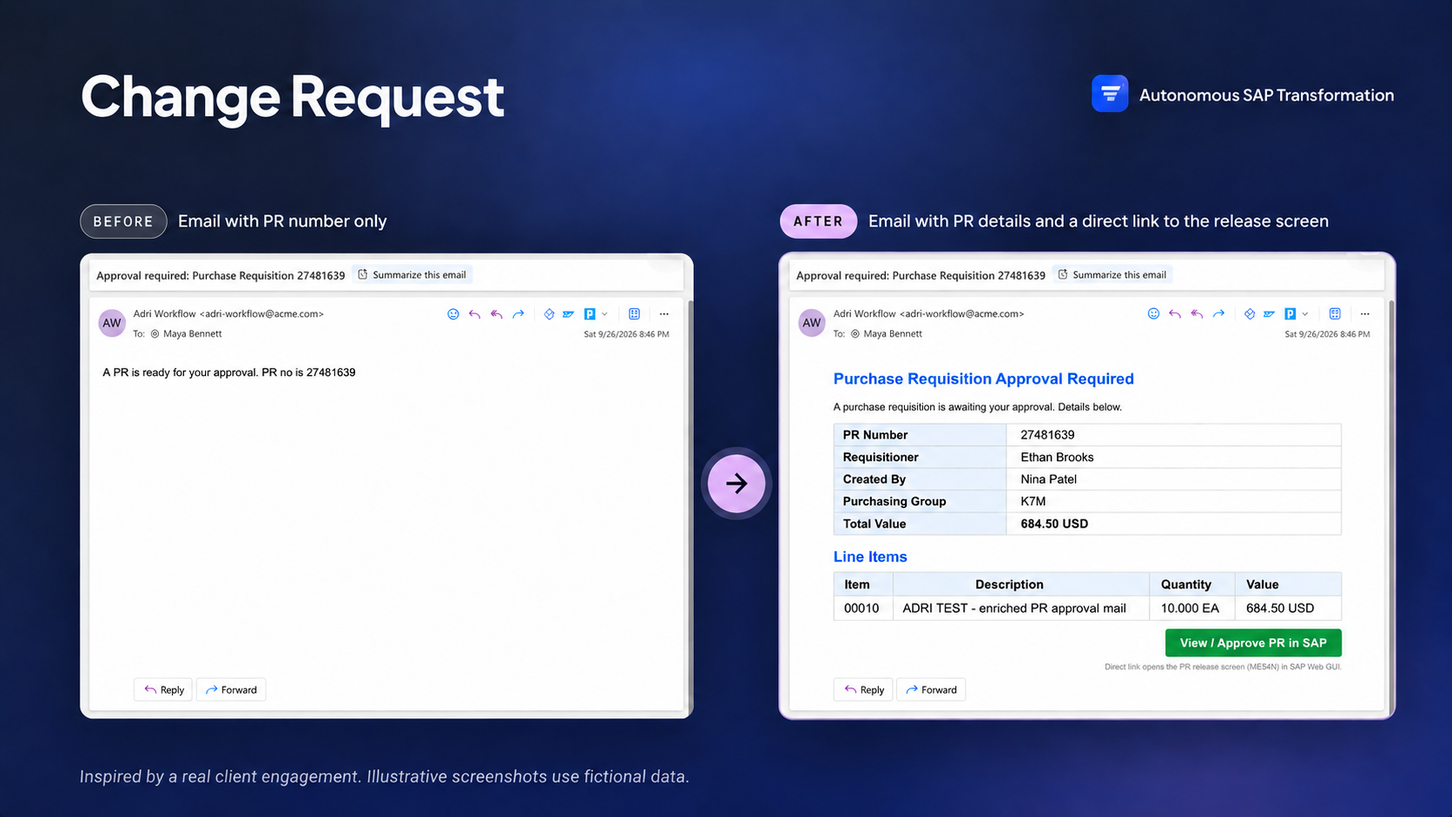
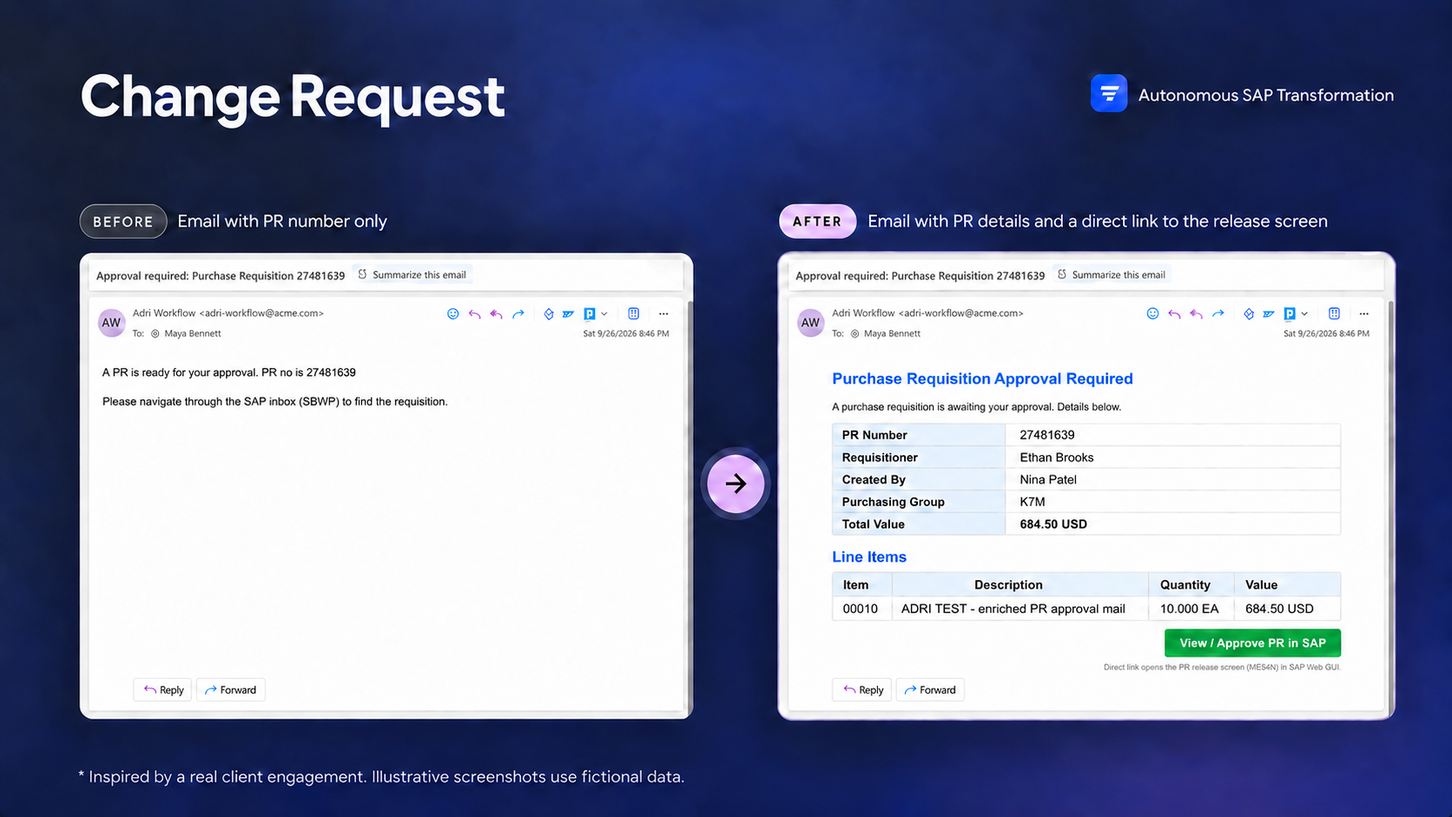
added new case study and others

diff --git a/docs/case-studies/v3.md b/docs/case-studies/v3.md
@@ -58,7 +58,7 @@ The dots indicate direct participation, not the amount of effort or overall acco
 | --------- | ------------------------------------------------------------------------------------------------------------------------------------------------------------------------------------------------------------------------------------------------------------------ |
 | Agent     | No direct task at this step.                                                                                                                                                                                                                                       |
 | Developer | Since the ABAP team did not know the existing workflow behind this approval flow deeply, the most important and non-negotiable criterion for the developer was that the change should be easy to reverse in case the modified implementation behaved unexpectedly. |
-| Basis     | No direct task at this step.                                                                                                                                                                                                                                       |
+| BASIS     | No direct task at this step.                                                                                                                                                                                                                                       |
 
 </div>
 
@@ -70,7 +70,7 @@ The dots indicate direct participation, not the amount of effort or overall acco
 | --------- | ---------------------------------------------------------------------------------------------------------------------------------------------------------------------- |
 | Agent     | Agent traced the custom code and configuration to understand how approvers were identified, which release strategy controlled approval, and how emails were delivered. |
 | Developer | No direct task at this step.                                                                                                                                           |
-| Basis     | No direct task at this step.                                                                                                                                           |
+| BASIS     | No direct task at this step.                                                                                                                                           |
 
 </div>
 
@@ -82,11 +82,11 @@ The dots indicate direct participation, not the amount of effort or overall acco
 | --------- | ------------------------------------------------------------------------------------------------------------------------------------ |
 | Agent     | Agent researched the system's configuration, and authorization setup and picked one approach that required minimal development work. |
 | Developer | No direct task at this step.                                                                                                         |
-| Basis     | No direct task at this step.                                                                                                         |
+| BASIS     | No direct task at this step.                                                                                                         |
 
 </div>
 
-### Step 4. Agent, developer and basis resolved the authorization blocker.
+### Step 4. Agent, developer and BASIS resolved the authorization blocker.
 
 <div className="responsibility-table">
 
@@ -94,7 +94,7 @@ The dots indicate direct participation, not the amount of effort or overall acco
 | --------- | ------------------------------------------------------------------------------------------------------------------------------------------------------------------------------------- |
 | Agent     | Agent found that it could not modify the workflow with the available authorizations. It diagnosed the blocker, prepared a detailed request for BASIS and how they could implement it. |
 | Developer | The developer discussed the request with BASIS, checked what the environment could support, and brought any constraints back to the agent.                                            |
-| Basis     | Basis updated the authorization controls as per the specification created by Agent and in accordance with the firm's security policy.                                                 |
+| BASIS     | BASIS updated the authorization controls as per the specification created by Agent and in accordance with the firm's security policy.                                                 |
 
 </div>
 
@@ -106,7 +106,7 @@ The dots indicate direct participation, not the amount of effort or overall acco
 | --------- | ----------------------------------------------------------------------------------------------------------------------------------------------------- |
 | Agent     | Agent changed workflow nodes, created workflow containers, and integrated with the existing email infrastructure. It also unit-tested the components. |
 | Developer | No direct task at this step.                                                                                                                          |
-| Basis     | No direct task at this step.                                                                                                                          |
+| BASIS     | No direct task at this step.                                                                                                                          |
 
 </div>
 
@@ -118,7 +118,7 @@ The dots indicate direct participation, not the amount of effort or overall acco
 | --------- | ---------------------------------------------------------------------------------------------------------------------------------------------------------------------------------------------------------------------------------- |
 | Agent     | Agent identified that the sandbox could send approval emails to real users. So, it requested a safety measure for outbound email so that only a chosen set of developers and architects receive the approval email during testing. |
 | Developer | The developer discussed the request with BASIS, checked what the environment could support, and brought any constraints back to the agent.                                                                                         |
-| Basis     | Basis updated the authorization controls as per the specification created by Agent and in accordance with the firm's security policy.                                                                                              |
+| BASIS     | BASIS updated the authorization controls as per the specification created by Agent and in accordance with the firm's security policy.                                                                                              |
 
 </div>
 
@@ -130,7 +130,7 @@ The dots indicate direct participation, not the amount of effort or overall acco
 | --------- | ------------------------------------------------------------------------------------------------------------------------------------------------------------------------------------------------------------------------------- |
 | Agent     | Agent analyzed the release strategy for PRs and past PRs to create test PRs. This triggered test emails. The team members who were temporarily added for end to end testing confirmed that they received emails in their inbox. |
 | Developer | Developer set the requirement that the agent must trigger the workflow by creating real PRs and monitoring the SAPConnect activities.                                                                                           |
-| Basis     | No direct task at this step.                                                                                                                                                                                                    |
+| BASIS     | No direct task at this step.                                                                                                                                                                                                    |
 
 </div>
 
@@ -142,7 +142,7 @@ The dots indicate direct participation, not the amount of effort or overall acco
 | --------- | ----------------------------------------------------- |
 | Agent     | Agent created the transport from development sandbox. |
 | Developer | No direct task at this step.                          |
-| Basis     | No direct task at this step.                          |
+| BASIS     | No direct task at this step.                          |
 
 </div>
 
@@ -154,39 +154,35 @@ The dots indicate direct participation, not the amount of effort or overall acco
 | --------- | ------------------------------------------------------------------------------ |
 | Agent     | Agent updated the knowledge graph with the firm's email-delivery code pattern. |
 | Developer | No direct task at this step.                                                   |
-| Basis     | No direct task at this step.                                                   |
+| BASIS     | No direct task at this step.                                                   |
 
 </div>
 
-## So what changes for the SAP developer?
+## So what changes for the SAP developer when agents do more of the work?
 
-A developer can delegate more investigation, implementation, and test execution to an agent. They still need to define what an acceptable solution looks like and decide when the work can proceed.
+![Three responsibilities SAP developers retain when working with agents: set priorities and constraints, check if proposed changes are feasible, and define acceptance criteria. SAP and landscape knowledge remain essential to question the agent's approach and assess its impact.](/img/case-studies/role-shift.png)
 
-In practice, I would make four responsibilities explicit:
+A developer can delegate more investigation, implementation, and test execution to an agent.
 
-1. **Set priorities and constraints.**
+They still need to define what an acceptable solution looks like and decide when the work can proceed.
+
+### 1. **Set priorities and constraints.**
 
 Decide which risks matter most in the team’s circumstances. Here, limited knowledge of the existing workflow made reversibility non-negotiable.
 
 The developer also specified how testing should happen: create real PRs and monitor SAPConnect.
 
-2. **Check implementation feasibility.**
+### 2. **Check whether proposed implementation is feasible.**
 
 Assess proposed changes with BASIS and
 security stakeholders, bring constraints back to the agent, and guide alternatives when needed.
 
-3. **Define the evidence.**
+### 3. **Decide what must be verified before testing or accepting a change.**
 
 Establish what must be verified before testing or accepting a change, including email containment, authorization controls, and recovery. A passing test is one input to that decision.
 
-4. **Assign ownership.**
-
-Make clear who can authorize continuation, approve a transport, and import it. Preparing the work does not settle who can release it.
+---
 
 As you can see, a developer still needs significant SAP and landscape knowledge to question the agent's approach and understand the consequences of its proposed changes.
 
 I hope this gives you a clearer picture into how the roles and responsibilities of an SAP developer are changing as agents handle more and more of the development lifecycle. Happy to hear how your agentic development flow looks like.
-
----
-
-_Inspired by a real client engagement. Illustrative screenshots use fictional data._

diff --git a/docs/case-studies/v2.md b/docs/case-studies/v2.md
@@ -1,0 +1,109 @@
+---
+title: What Does the SAP Developer Own When an Agent Writes the Code?
+sidebar_position: 3
+sidebar_label: SAP Developer Responsibilities (v2)
+description: A workflow change shows how an SAP developer, an agent, and BASIS divide implementation work, decisions, and responsibility.
+slug: /case-studies/sap-developer-responsibilities-with-agents
+---
+
+If an agent can investigate your custom code, write a solution, and run the tests, what exactly is the SAP developer supposed to do?
+
+One of our clients had a useful example. They wanted to improve a purchase requisition approval email: include the PR details and add a link that opened the specific requisition in ME54N through SAP Web GUI.
+
+Reasonable enough. Except the workflow was 14 years old, its original developer had left, and nobody on the current team knew it particularly well.
+
+The client used Adri. I am affiliated with Adri, so this is the example I know firsthand. The part I want to discuss is how the agent, developer, and BASIS team divided the work.
+
+## How was the work divided?
+
+Follow the handoffs at the authorization blocker and the email risk. These are the points where the developer had to determine what could happen next.
+
+```mermaid
+sequenceDiagram
+    participant D as SAP Developer
+    participant A as Agent
+    participant B as BASIS
+
+    Note over D,B: 1. Set the constraint
+    D->>A: Make the change reversible
+
+    Note over D,B: 2–3. Investigate and implement
+    A->>A: Trace code, configuration, and dependencies
+    A->>A: Develop, iterate, and unit-test
+
+    Note over D,B: 4. Resolve authorization blocker
+    A->>D: Report blocker and propose required change
+    D->>B: Check feasibility and coordinate request
+    B-->>D: Required update completed
+    D->>A: Confirm update and guide continuation
+    A->>A: Complete remaining implementation
+
+    Note over D,B: 5. Make testing safe
+    A->>D: Flag outbound-email risk and pause testing
+    D->>B: Coordinate email containment
+    B-->>D: Safety measure in place
+    D->>A: Confirm testing can proceed
+
+    Note over D,B: 6–8. Test, hand over, and retain learning
+    A->>A: Run end-to-end tests, then deliver transports<br/>and specification, then record findings
+```
+
+The agent investigated approver identification, release strategy, and email delivery. It developed the email class and the workflow nodes and containers needed to call it. There were failed attempts and rework before it found an approach that fit the system.
+
+After testing, it delivered the transports and technical specification and recorded the email-delivery pattern in the knowledge graph for future work. This account covers implementation and sandbox testing; it does not establish who approved or carried out the production deployment.
+
+Three decisions in that sequence are worth looking at more closely.
+
+## We need a way back if this goes wrong.
+
+The developer made reversibility a success criterion before delegating the implementation.
+
+The workflow already worked. The team did not know it deeply. If the change behaved unexpectedly, they needed a clear path back to the working version.
+
+An agent can identify several technical concerns. Someone still has to rank them in the context of the business and the team's ability to recover. Here, the developer decided that being able to undo the change mattered enough to shape the solution.
+
+That is a requirement you can easily miss if the task you hand over is simply “add PR details and a button to this email.”
+
+For me, this is one responsibility that becomes more explicit when working with agents: describe the conditions that make a solution acceptable, as well as the functionality you want it to produce.
+
+## Can we actually make that authorization change here?
+
+During implementation, the agent found that it lacked the authorization to modify the workflow. It diagnosed the issue, prepared a detailed request for BASIS, and paused.
+
+The developer took that request to the relevant stakeholders and checked whether it was viable in the client's environment. A proposed change can be technically sensible and still run into security policy or operational constraints.
+
+This is where knowing the landscape and the people responsible for it matters. The developer had to understand the request well enough to discuss it, bring constraints back to the agent, and guide the next move.
+
+BASIS completed the required update. The agent then resumed and finished the implementation.
+
+The developer was doing more than forwarding a message. They were connecting a proposed technical solution with the organization that had to permit and support it.
+
+## Where will the test emails actually go?
+
+Before end-to-end testing, the agent identified that the sandbox could still deliver workflow emails to real users.
+
+Calling it a sandbox does not help much when your test lands in an actual approver's inbox.
+
+The agent stopped and requested a safety measure for outbound email. The developer coordinated with BASIS to establish what the environment could support. BASIS put the measure in place, and testing resumed after confirmation.
+
+The agent spotted the risk in this case. The developer still had to coordinate the response and determine when it was safe to continue.
+
+There are several separate responsibilities here: identify the risk, propose a response, change the environment, and confirm that the next action can proceed. The diagram makes those handoffs visible. “The agent tested the workflow” leaves quite a bit out.
+
+## What does this mean for the developer or architect?
+
+These responsibilities will sound familiar to experienced SAP developers and architects. The shift is in how much execution they can delegate, and how deliberately they need to define the conditions around that work.
+
+In this case, the agent took on investigation, implementation, and test execution. The developer set a priority the solution had to respect, checked proposed changes against organizational constraints, and coordinated the decisions that let work resume. BASIS remained responsible for the environment changes described here.
+
+My takeaway for an agent-assisted SDLC is to agree on three things before work starts:
+
+- **What can the agent do within the agreed scope?** Define the task, constraints, and conditions that require it to pause.
+- **What evidence must come back?** Decide how the implementation, test results, and recovery approach will be reviewed.
+- **Who can authorize the next step?** Name the people responsible for environment changes, acceptance, and release.
+
+Those are recommendations drawn from the story. The account does not document every review and approval, and preparing a transport alone does not establish who owns its release.
+
+The developer had fewer implementation steps to execute personally, but still needed enough technical understanding to question the approach and make consequential decisions. For an architect, the same questions extend across the systems and teams affected by a change.
+
+That is the question I would bring to the next project: when we delegate the work, have we also made clear who owns the decisions around it?

diff --git a/docs/case-studies/rewritten.md b/docs/case-studies/rewritten.md
@@ -44,15 +44,13 @@ The agent traced the custom code and configuration to understand how approvers w
 
 This is work a developer would otherwise have to do directly: follow the code, inspect configuration, and connect the pieces.
 
-Finding the email class only gets you so far. The setup that allows those lines of code to work is part of the implementation too.
-
 ### Step 3. Develop and test an approach.
 
 The agent worked on a class to generate the email and direct-action button, along with the workflow nodes and containers needed to call it. It also unit-tested the components.
 
 There were failed attempts. The agent built, scrapped, and retried approaches before finding one that fit the system's workflow, configuration, and authorization setup.
 
-Delegating this work did not make the dependencies disappear. It changed who was doing the investigation and implementation as those dependencies surfaced.
+Broadly, this meant changing workflow nodes, creating workflow containers, and integrating with the existing email infrastructure. In this landscape, the required direct navigation was not available out of the box.
 
 ### Step 4. Resolve an authorization blocker.
 
@@ -62,7 +60,7 @@ The developer took the request to the relevant stakeholders and checked whether 
 
 BASIS completed the required update. The agent resumed and finished the remaining implementation.
 
-This handoff is easy to overlook when we describe the task as “the agent changed the workflow.” Someone still had to get the proposed system change assessed and carried out by the team responsible for it.
+agent wrote the exact requirement for basis and how to implement it - values, tcode, update
 
 ### Step 5. Make the environment safe for testing.
 
@@ -70,7 +68,7 @@ Before end-to-end testing, the agent identified that the sandbox could still sen
 
 Calling it a sandbox does not help much when your test lands in an actual approver's inbox.
 
-The agent stopped and requested a safety measure for outbound email. The developer coordinated with BASIS to establish what the environment could support. BASIS put the measure in place, and testing resumed after confirmation.
+The agent stopped and requested a safety measure for outbound email. The agent documented the BASIS configuration required which the developer shared with BASIS to put the measure in place, and testing resumed after confirmation.
 
 In this case, the agent spotted the risk. The developer's responsibility still included deciding when it was safe to continue and coordinating the people who could change the environment.
 
@@ -80,13 +78,11 @@ With the authorization blocker resolved and outbound email contained, the agent 
 
 The modified workflow, email-generation class, and navigation to the PR could now be tested together.
 
-This distinction matters when assigning work: running a test and deciding whether the available test evidence is sufficient are separate responsibilities. The agent performed the test execution here. A team adopting this workflow still needs to decide who reviews the evidence and accepts the result.
+The other most important requirement set by the developer was that the agent must trigger the workflow by creating real PRs and monitoring the SAPConnect activities. The agent analyzed the release strategy for PRs and past PRs to create test PRs. The developers and other team members who were temporarily added for end to end testing confirmed that they received emails in their inbox.
 
 ### Step 7. Prepare the handover.
 
-The agent delivered the transports and technical specification. The resulting email included the requisition details and a button to open the relevant PR.
-
-That is where this implementation account ends. It does not establish who approved a production release or imported the transports, so I would not describe this as an agent owning deployment from start to finish.
+The agent delivered the transports and technical specification.
 
 ### Step 8. Retain what was learned.
 
@@ -151,13 +147,13 @@ Several of these responsibilities will be familiar to experienced developers and
 
 ### Turn requirements into constraints the agent can act on.
 
-“Improve the approval email” leaves a lot open. “Preserve a clear way back to the working workflow” changes which solutions are acceptable.
+“Improve the approval email” leaves a lot open. “Preserve a clear way back to the working workflow” and "Trigger real PR and monitor SAPConnect" changes which solutions are acceptable.
 
 The developer in this case supplied that priority. For an architect, the same responsibility extends to defining the system boundaries and constraints within which the agent can work.
 
 ### Evaluate proposed changes against the real environment.
 
-The authorization request needed someone who could discuss it with the relevant teams and understand their answer. If the preferred change was not possible, that person also had to guide the next approach.
+The authorization request needed someone who could discuss it with the relevant teams and understand their answer. If the preferred authorization change was not possible, that person also had to guide the next approach.
 
 This requires technical knowledge. To challenge a proposed permission change or an implementation dependency, you need to understand why it is being requested and what it would affect.
 

diff --git a/docs/case-studies/clean-core-plan.md b/docs/case-studies/clean-core-plan.md
@@ -1,0 +1,28 @@
+## Adri reduced clean core migration planning from 16 weeks to 3
+
+![Clean core migration planning with Adri](/img/case-studies/case-study-clean-core.png)
+
+### Customer and SI partner
+
+Multinational FMCG company · SAP Gold Partner
+
+### Migration scope
+
+SAP ECC and BW → SAP S/4HANA Private Cloud under RISE with SAP, BDC – Datasphere, and BTP
+
+### Object count
+
+About 4,000 technical objects
+
+### Timeline
+
+**Planned timeline before Adri:** 16 weeks  
+**Actual timeline with Adri (including onboarding):** 3 weeks
+
+### Task
+
+Adri analyzed about 4,000 technical objects and delivered an actionable clean core migration plan in 3 weeks, including onboarding—81% less time than the planned 16 weeks. The plan connected legacy business logic and dependencies to standard replacements, modernization paths, and the clean core impact of migration decisions.
+
+- **Mapped legacy business logic and dependencies:** Adri built the Context Engine that included each RICEFW object's business purpose, behavior, and dependencies on other objects and external systems.
+- **Identified standard replacements and modernization paths:** Adri mapped candidates for replacement with standard capabilities in the target landscape and for modernization, including decoupling and moving to BTP.
+- **Tracked clean core impact of migration decisions:** Adri created a dashboard showing clean core levels with each transformation decision.

diff --git a/docs/case-studies/index.md b/docs/case-studies/index.md
@@ -10,8 +10,18 @@ pagination_next: case-studies/modernizing-a-14-year-old-sap-workflow
 
 See how Adri agents solve complex SAP challenges in real customer environments.
 
-## Latest case study
+## Latest case studies
+
+### [Adri reduced clean core migration planning from 16 weeks to 3](./clean-core-plan.md)
+
+How Adri analyzed about 4,000 technical objects and delivered an actionable clean core migration plan in 3 weeks, including onboarding—81% less time than the planned 16 weeks.
+
+[![Clean core migration planning with Adri](/img/case-studies/case-study-clean-core.png)](./clean-core-plan.md)
+
+---
 
 ### [The 14-Year-Old SAP Workflow Nobody Wanted to Touch](./modernizing-a-14-year-old-sap-workflow.md)
 
 How Adri investigated, modernized, and safely tested a legacy purchase requisition approval workflow in less than three hours.
+
+[![Before and after: SAP purchase requisition approval email](/img/case-studies/pr-email-before-after-v2.png)](./modernizing-a-14-year-old-sap-workflow.md)
